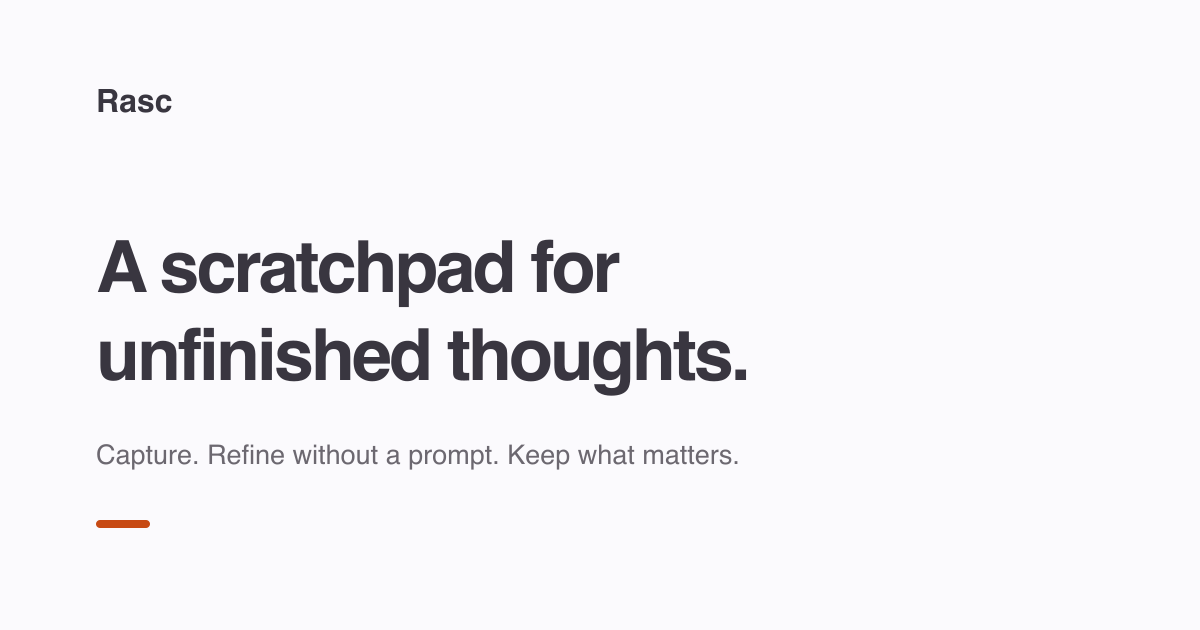
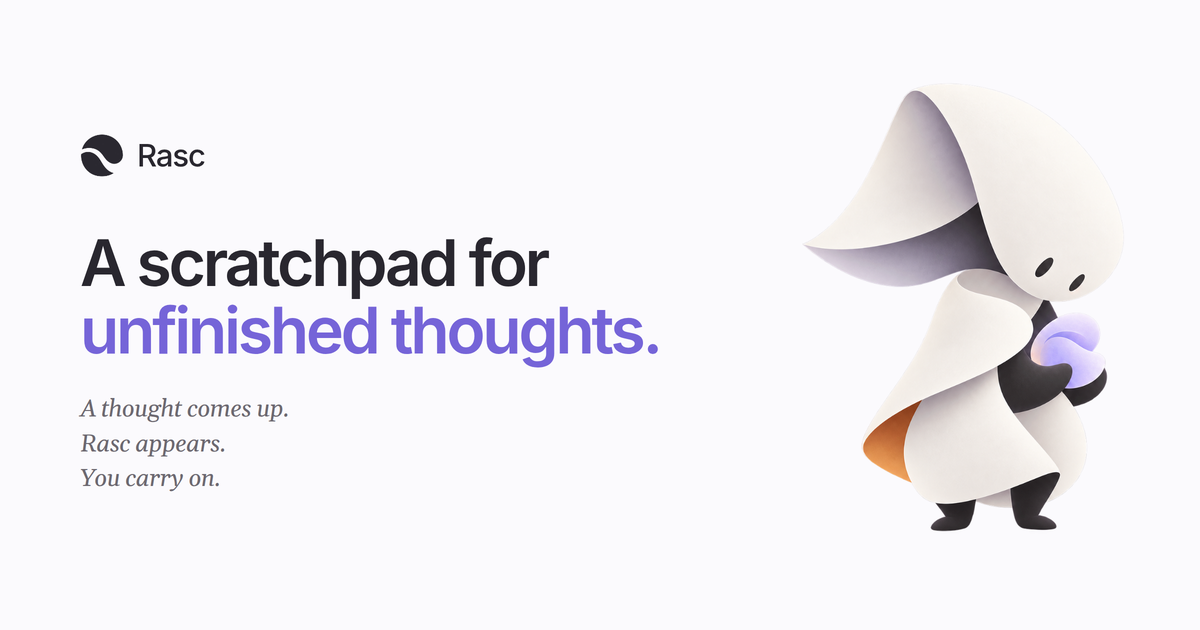
feat(seo): redraw the link preview in the current identity
Replace the text-only Open Graph plate with a 1200×630 card that uses the brand lockup, the landing headline, and the editorial companion. Version the image URL so WhatsApp and other clients fetch the new preview.

diff --git a/index.html b/index.html
@@ -8,12 +8,16 @@
     <meta property="og:type" content="website" />
     <meta property="og:title" content="Rasc — A scratchpad for unfinished thoughts" />
     <meta property="og:description" content="Capture a thought before you know what it should become. Refine it without a prompt. Keep what matters, then move on." />
-    <meta property="og:image" content="%BASE_URL%og-image.png" />
+    <meta property="og:image" content="%BASE_URL%og-image.png?v=20261015" />
+    <meta property="og:image:type" content="image/png" />
+    <meta property="og:image:width" content="1200" />
+    <meta property="og:image:height" content="630" />
     <meta property="og:image:alt" content="Rasc — A scratchpad for unfinished thoughts" />
     <meta name="twitter:card" content="summary_large_image" />
     <meta name="twitter:title" content="Rasc — A scratchpad for unfinished thoughts" />
     <meta name="twitter:description" content="Capture a thought before you know what it should become. Refine it without a prompt. Keep what matters, then move on." />
-    <meta name="twitter:image" content="%BASE_URL%og-image.png" />
+    <meta name="twitter:image" content="%BASE_URL%og-image.png?v=20261015" />
+    <meta name="twitter:image:alt" content="Rasc — A scratchpad for unfinished thoughts" />
     <!-- Pre-rendered from the app RascLogo raster (same crop as brand-symbol.svg). -->
     <link rel="icon" type="image/png" sizes="32x32" href="%BASE_URL%favicon-32.png" />
     <link rel="icon" type="image/png" sizes="16x16" href="%BASE_URL%favicon-16.png" />

diff --git a/vite.config.ts b/vite.config.ts
@@ -18,7 +18,7 @@ export default defineConfig({
     name: 'public-site-metadata',
     transformIndexHtml(html) {
       if (!canonical) return html;
-      const imageUrl = new URL('og-image.png', canonical).href;
+      const imageUrl = new URL('og-image.png?v=20261015', canonical).href;
       return {
         html: html.replace(/(<meta (?:property="og:image"|name="twitter:image") content=")[^"]+("\s*\/>)/g, `$1${imageUrl}$2`),
         tags: [
